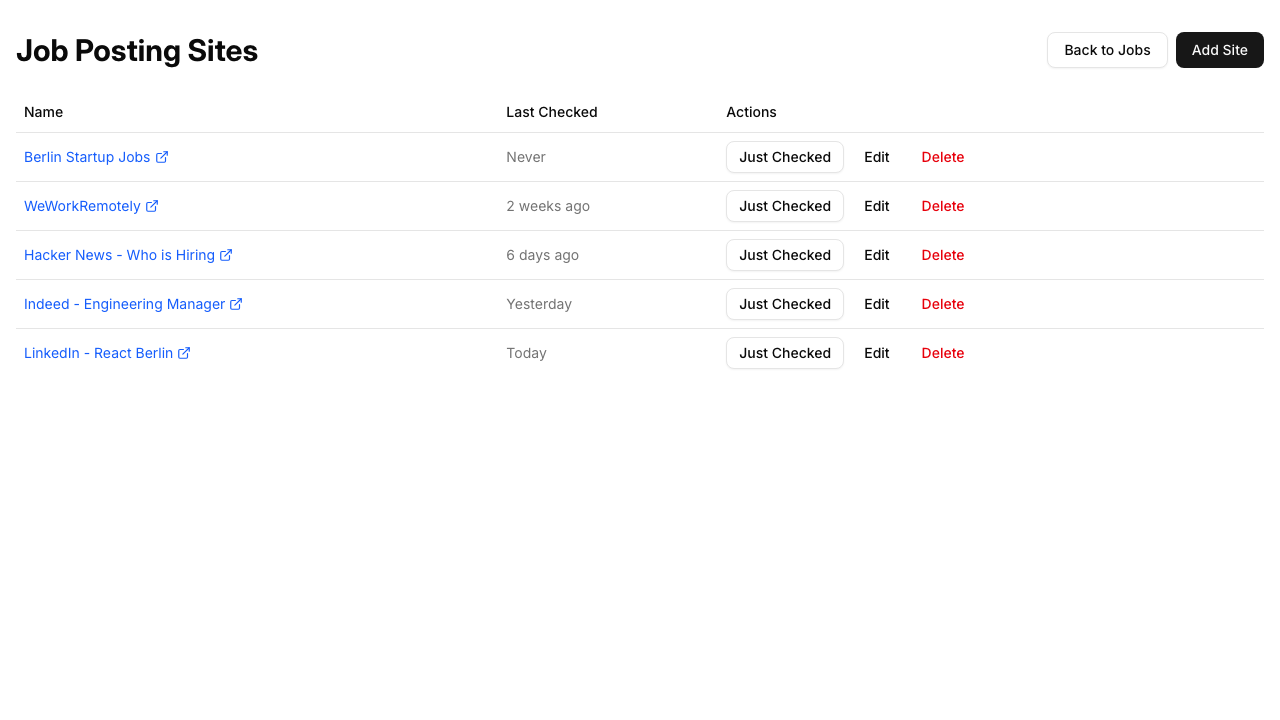
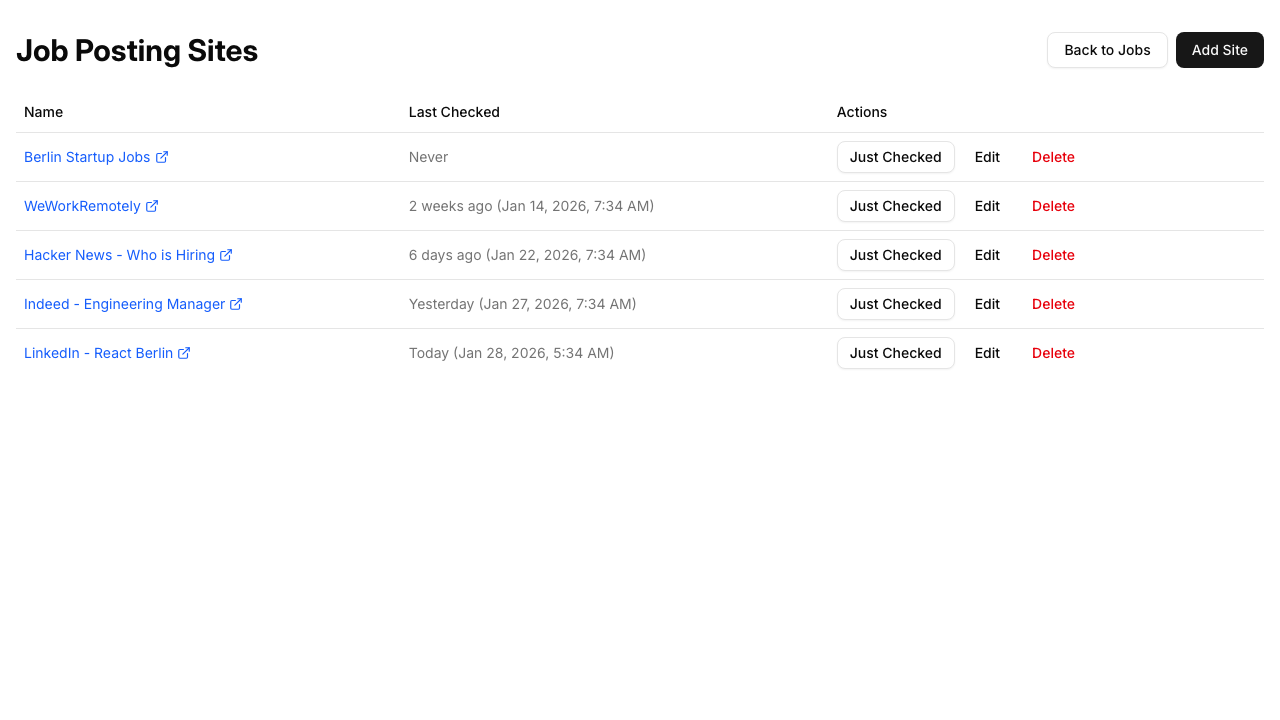
feat: show localized date+time alongside relative date on sites page

diff --git a/app/routes/sites.tsx b/app/routes/sites.tsx
@@ -83,13 +83,7 @@ export async function action({ request }: Route.ActionArgs) {
   return { success: false }
 }
 
-function formatLastChecked(date: string | null): string {
-  if (!date) return 'Never'
-  const now = new Date()
-  const checked = new Date(date)
-  const diffMs = now.getTime() - checked.getTime()
-  const diffDays = Math.floor(diffMs / (1000 * 60 * 60 * 24))
-
+function formatRelative(diffDays: number): string {
   if (diffDays <= 0) return 'Today'
   if (diffDays === 1) return 'Yesterday'
   if (diffDays < 7) return `${diffDays} days ago`
@@ -99,6 +93,19 @@ function formatLastChecked(date: string | null): string {
   }
   const months = Math.floor(diffDays / 30)
   return `${months} ${months === 1 ? 'month' : 'months'} ago`
+}
+
+function formatLastChecked(date: string | null): string {
+  if (!date) return 'Never'
+  const checked = new Date(date)
+  const diffMs = Date.now() - checked.getTime()
+  const diffDays = Math.floor(diffMs / (1000 * 60 * 60 * 24))
+  const relative = formatRelative(diffDays)
+  const localized = checked.toLocaleString(undefined, {
+    dateStyle: 'medium',
+    timeStyle: 'short',
+  })
+  return `${relative} (${localized})`
 }
 
 export default function Sites() {
